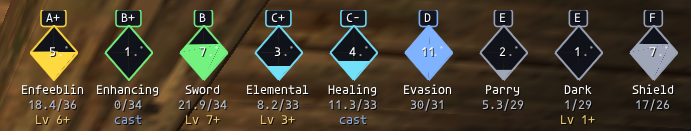
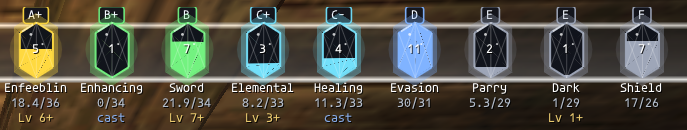
v0.7.4: fold Gems shape into Crystals, drop Gems mode
The hex crystal silhouette (formerly the 'Gems' display mode) is now the
default 'Crystals' look. The standalone Gems mode is removed.

- prism.lua: skill_crystal replaced with the hex-crystal renderer
  (glow disk, halo, six facets, highlight stripe, sparkles). skill_gem
  function deleted entirely. Mode dispatch, settings radio, /prism mode
  validator and help text drop the 'gems' option. normalize_config
  silently migrates any saved 'gems' value to 'crystals'.
- README: 4-up modes table collapsed to 3-up (Crystals / Donuts /
  Pills). Intro and command help drop 'gems'.
- assets/overlay-rdm.png refreshed to the new hex-crystal capture (RDM
  lv11). assets/gems-rdm.png removed.

diff --git a/README.md b/README.md
@@ -1,16 +1,16 @@
 # Prism
 
-A floating skill overlay for **FFXI** (Ashita v4). Shows every skill your main job has access to — combat, defense, magic, and crafting — with tier-colored crystals, gems, donuts, or pills, plus effective level and minimum mob level hints so you know what to hunt next.
+A floating skill overlay for **FFXI** (Ashita v4). Shows every skill your main job has access to — combat, defense, magic, and crafting — with tier-colored crystals, donuts, or pills, plus effective level and minimum mob level hints so you know what to hunt next.
 
 ![Prism overlay on RDM — all four categories](assets/overlay-rdm.png)
 
 ## Display modes
 
-| Crystals (default) | Gems | Donuts | Pills |
-|---|---|---|---|
-| ![Crystals](assets/overlay-rdm.png) | ![Gems](assets/gems-rdm.png) | ![Donuts](assets/donuts-rdm.png) | ![Pills](assets/pills-rdm.png) |
+| Crystals (default) | Donuts | Pills |
+|---|---|---|
+| ![Crystals](assets/overlay-rdm.png) | ![Donuts](assets/donuts-rdm.png) | ![Pills](assets/pills-rdm.png) |
 
-Switch with the radio row in `/prism settings` or `/prism mode crystals|gems|donuts|pills`. Tier color encodes rank: **A+ gold**, **B green**, **C cyan**, **D blue**, **E/F grey**.
+Switch with the radio row in `/prism settings` or `/prism mode crystals|donuts|pills`. Tier color encodes rank: **A+ gold**, **B green**, **C cyan**, **D blue**, **E/F grey**.
 
 ## All skills, four categories
 